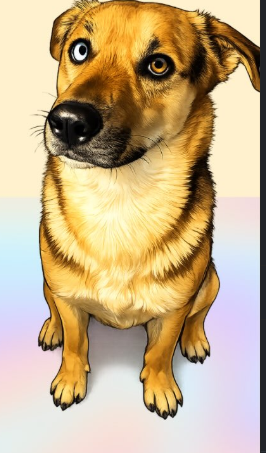
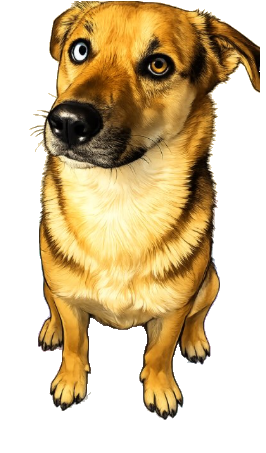
Aventuro: remove Tuco photo background, float animated bowl toward his gaze

diff --git a/aventuro/style.css b/aventuro/style.css
@@ -275,37 +275,45 @@ img { max-width: 100%; display: block; }
 
 .tuco-strip {
   position: relative;
-  height: 64px;
+  height: 118px;
+  width: 132px;
   margin-top: 16px;
-  display: flex;
-  align-items: flex-end;
-  justify-content: flex-end;
-  padding-right: 6px;
-}
-
-.tuco-strip .bowl {
-  width: 46px;
-  height: auto;
-  opacity: 0.9;
+  margin-left: auto;
 }
 
 .tuco-strip .tuco {
   position: absolute;
-  right: 46px;
-  bottom: -4px;
-  width: 58px;
+  left: 0;
+  bottom: 0;
+  width: 76px;
   height: auto;
   transform-origin: bottom center;
-  animation: tuco-approach 3.6s ease-in-out infinite alternate;
+  animation: tuco-idle 4.2s ease-in-out infinite alternate;
 }
 
-@keyframes tuco-approach {
-  0%   { transform: translateX(0) rotate(-4deg); }
-  100% { transform: translateX(58px) rotate(3deg); }
+.tuco-strip .bowl {
+  position: absolute;
+  top: 0;
+  left: 64px;
+  width: 38px;
+  height: auto;
+  opacity: 0.95;
+  transform-origin: center;
+  animation: bowl-float 2.6s ease-in-out infinite alternate;
+}
+
+@keyframes tuco-idle {
+  0%   { transform: rotate(-2deg); }
+  100% { transform: rotate(2deg); }
+}
+
+@keyframes bowl-float {
+  0%   { transform: translateY(0) rotate(-6deg); }
+  100% { transform: translateY(-12px) rotate(6deg); }
 }
 
 @media (prefers-reduced-motion: reduce) {
-  .tuco-strip .tuco { animation: none; }
+  .tuco-strip .tuco, .tuco-strip .bowl { animation: none; }
 }
 
 /* --- stats row --- */
